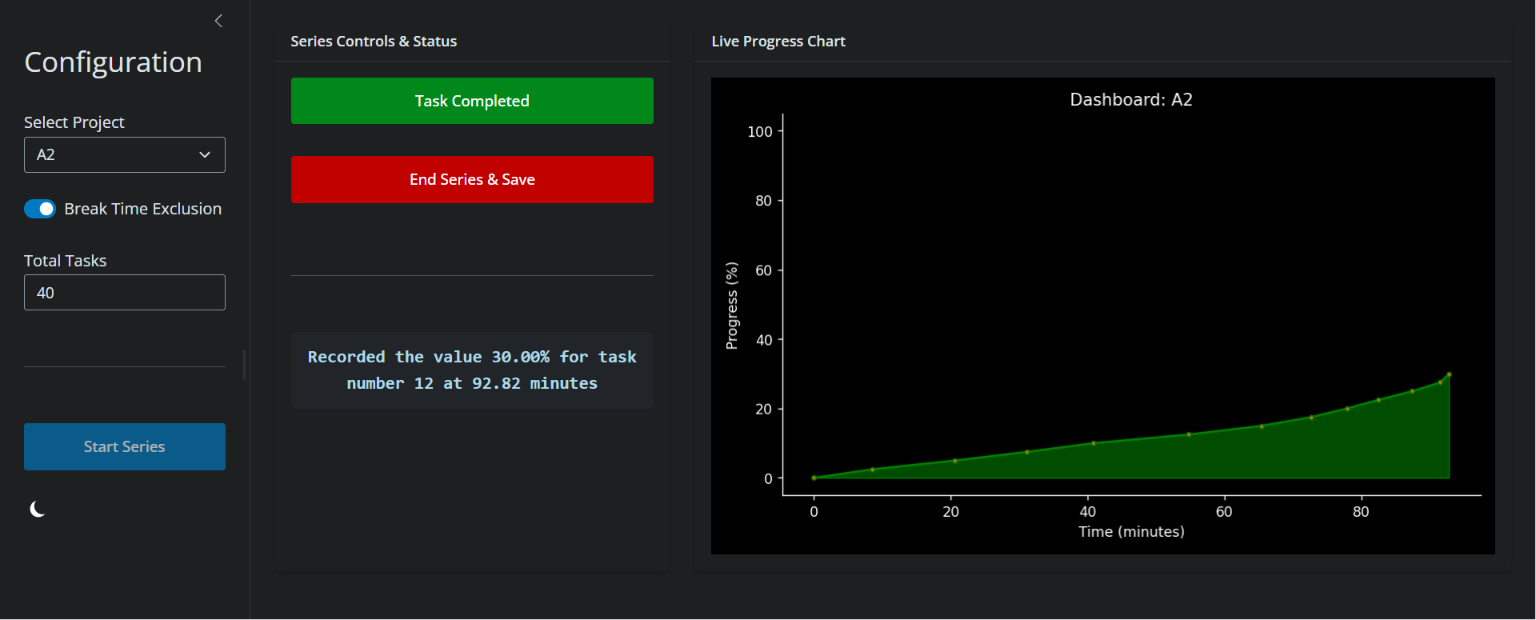
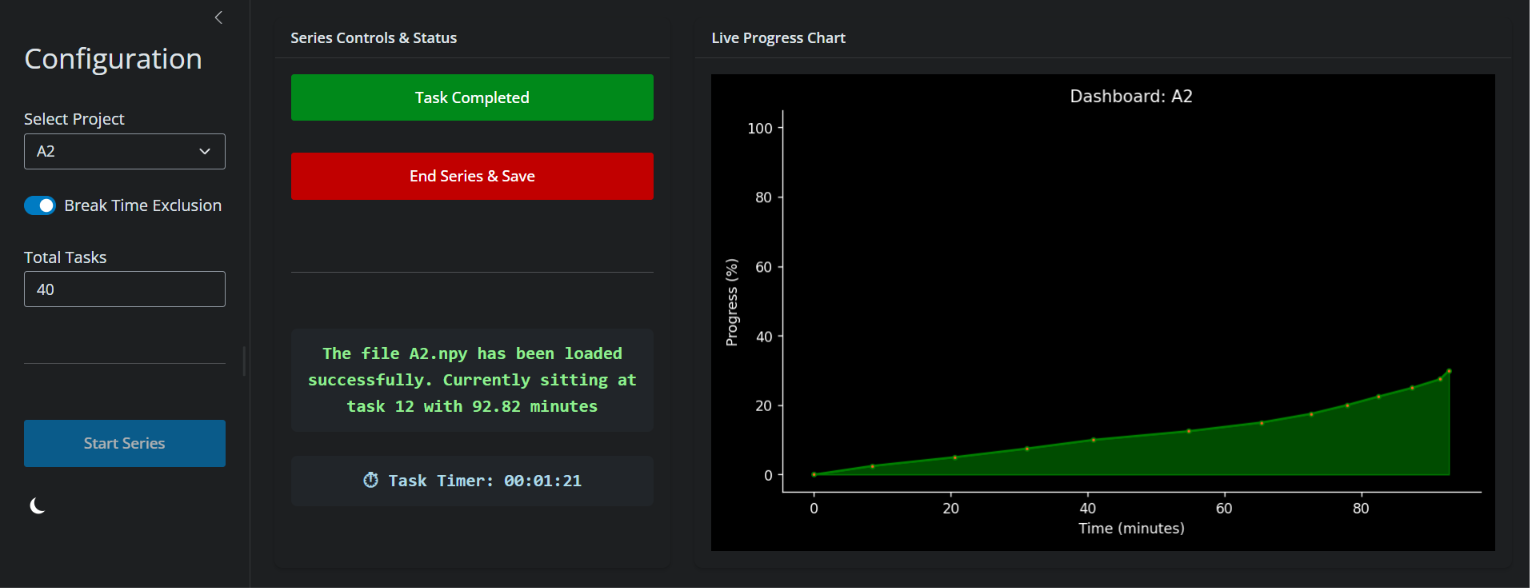
Added a timer feature to the ui

diff --git a/App/app.py b/App/app.py
@@ -1,5 +1,5 @@
 # General Imports
-import os, sys, glob
+import sys, time
 from pathlib import Path
 from shiny import ui, render, reactive, App, run_app
 
@@ -9,7 +9,7 @@ sys.path.append(str(data_path))
 from tracker import ProgressTracker
 
 # List of tasks (if any)
-tasklist = lambda : ["Create New."] + [os.path.basename(i).split(".")[0] for i in glob.glob(str(data_path / "*.npy"))]
+tasklist = lambda : ["Create New."] + [i.stem for i in data_path.glob("*.npy")]
 
 app_ui = ui.page_sidebar(
     ui.sidebar(
@@ -41,6 +41,7 @@ app_ui = ui.page_sidebar(
             ui.input_action_button("end_btn", "End Series & Save", class_="btn-danger w-100 mb-3", disabled=True),
             ui.hr(),
             ui.output_ui("status_log"),
+            ui.output_ui("timer_display"),
             style="height: 550px; overflow-y: auto;"
         ),
         ui.card(
@@ -55,6 +56,8 @@ app_ui = ui.page_sidebar(
 def server(input, output, session):
     project = ProgressTracker()
     refresh_trigger = reactive.Value(0)
+    timer_active = reactive.Value(False)
+    last_task_time = reactive.Value(time.time())
 
     @render.plot
     def progress_plot():
@@ -81,6 +84,31 @@ def server(input, output, session):
         bgcolor = "#212529" if input.theme() == "dark" else "#ECECEC"
         
         # Return a single formatted text block
+        return ui.div(
+            ui.span(msg, style=f"color: {color}; font-weight: bold; font-family: monospace; font-size: 1.1em;"),
+            style=f"background-color: {bgcolor}; padding: 12px; border-radius: 6px; text-align: center;"
+        )
+    
+    @render.text
+    def timer_display():
+        color = "lightblue" if input.theme() == "dark" else "darkblue"
+        bgcolor = "#212529" if input.theme() == "dark" else "#ECECEC"
+        # If a session isn't running, keep it flat at zero
+        if not timer_active.get():
+            return ui.div(
+                ui.span("⏱ Task Timer: 00:00:00", style=f"color: {color}; font-weight: bold; font-family: monospace; font-size: 1.1em;"),
+                style=f"background-color: {bgcolor}; padding: 12px; border-radius: 6px; text-align: center;"
+            )
+        
+        # This line forces Shiny to rerun this specific function every 1 second!
+        reactive.invalidate_later(1)
+        
+        # Calculate minutes and seconds elapsed since the last reset
+        elapsed_seconds = int(time.time() - last_task_time.get())
+        hours, remainder = divmod(elapsed_seconds, 3600)
+        minutes, seconds = divmod(remainder, 60)
+        msg = f"⏱ Task Timer: {hours:02d}:{minutes:02d}:{seconds:02d}"
+        
         return ui.div(
             ui.span(msg, style=f"color: {color}; font-weight: bold; font-family: monospace; font-size: 1.1em;"),
             style=f"background-color: {bgcolor}; padding: 12px; border-radius: 6px; text-align: center;"
@@ -115,6 +143,9 @@ def server(input, output, session):
         ui.update_action_button("done_btn", disabled=False)
         ui.update_action_button("end_btn", disabled=False)
         refresh_trigger.set(refresh_trigger.get()+1)
+        timer_active.set(True)
+        last_task_time.set(time.time())
+
     @reactive.effect
     @reactive.event(input.mismatch_rescale)
     def _():
@@ -144,7 +175,9 @@ def server(input, output, session):
             ui.update_action_button("done_btn", disabled=True)
             ui.update_action_button("end_btn", disabled=True)
             ui.update_select("project_select", choices=tasklist(), selected=project.name)
+            timer_active.set(False)
         
+        last_task_time.set(time.time())
         refresh_trigger.set(refresh_trigger.get()+1)
 
     
@@ -157,6 +190,7 @@ def server(input, output, session):
         ui.update_action_button("end_btn", disabled=True)
         ui.update_select("project_select", choices=tasklist(), selected=project.name)
         refresh_trigger.set(refresh_trigger.get()+1)
+        timer_active.set(False)
 
 
 app = App(app_ui, server)